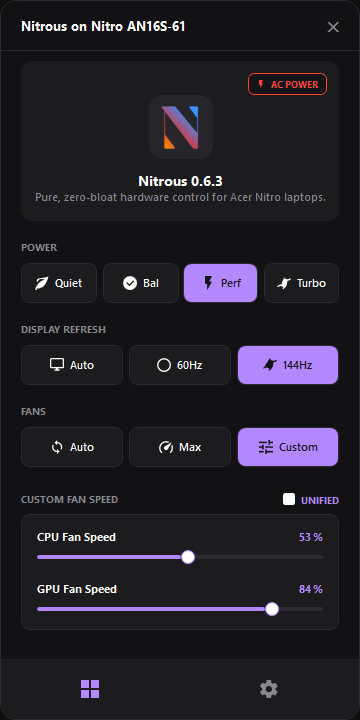
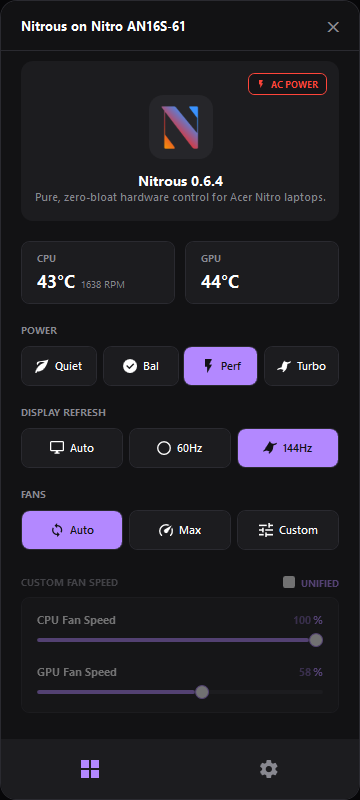
fixed some acer nitro models cannot control gpu fans and added cpu and gpu telemetries of rpm and temperature

diff --git a/app/Ui/NitrousDashboard.xaml b/app/Ui/NitrousDashboard.xaml
@@ -1,7 +1,7 @@
 <Window x:Class="Nitrous.Ui.NitrousDashboard"
         xmlns="http://schemas.microsoft.com/winfx/2006/xaml/presentation"
         xmlns:x="http://schemas.microsoft.com/winfx/2006/xaml"
-        Title="Nitrous Dashboard" Height="720" Width="360"
+        Title="Nitrous Dashboard" Height="800" Width="360"
         WindowStyle="None" AllowsTransparency="True" Background="Transparent"
         Topmost="True"
         IsVisibleChanged="Window_IsVisibleChanged"
@@ -190,6 +190,37 @@
                             </StackPanel>
                         </Grid>
                     </Border>
+
+                    <!-- LIVE TELEMETRY WIDGET -->
+                    <Grid Margin="0,0,0,20">
+                        <Grid.ColumnDefinitions>
+                            <ColumnDefinition Width="*"/>
+                            <ColumnDefinition Width="10"/>
+                            <ColumnDefinition Width="*"/>
+                        </Grid.ColumnDefinitions>
+
+                        <!-- CPU Telemetry -->
+                        <Border Grid.Column="0" Background="#1C1C1F" CornerRadius="8" BorderBrush="#2A2A30" BorderThickness="1" Padding="15,10">
+                            <StackPanel>
+                                <TextBlock Text="CPU" Foreground="#888890" FontSize="10" FontWeight="Bold"/>
+                                <StackPanel Orientation="Horizontal" Margin="0,4,0,0">
+                                    <TextBlock Text="{Binding CpuTempText}" Foreground="{Binding CpuTempColor}" FontSize="18" FontWeight="Bold"/>
+                                    <TextBlock Text="{Binding CpuRpmText}" Foreground="#888890" FontSize="10" VerticalAlignment="Bottom" Margin="6,0,0,3"/>
+                                </StackPanel>
+                            </StackPanel>
+                        </Border>
+
+                        <!-- GPU Telemetry -->
+                        <Border Grid.Column="2" Background="#1C1C1F" CornerRadius="8" BorderBrush="#2A2A30" BorderThickness="1" Padding="15,10">
+                            <StackPanel>
+                                <TextBlock Text="GPU" Foreground="#888890" FontSize="10" FontWeight="Bold"/>
+                                <StackPanel Orientation="Horizontal" Margin="0,4,0,0">
+                                    <TextBlock Text="{Binding GpuTempText}" Foreground="{Binding GpuTempColor}" FontSize="18" FontWeight="Bold"/>
+                                    <TextBlock Text="{Binding GpuRpmText}" Foreground="#888890" FontSize="10" VerticalAlignment="Bottom" Margin="6,0,0,3"/>
+                                </StackPanel>
+                            </StackPanel>
+                        </Border>
+                    </Grid>
 
                     <!-- Power Modes (Bound via Command) -->
                     <TextBlock Text="POWER" Foreground="#888890" FontSize="10" FontWeight="Bold" Margin="0,0,0,10"/>

diff --git a/app/Managers/AcerWmiManager.cs b/app/Managers/AcerWmiManager.cs
@@ -1,4 +1,5 @@
 using System;
+using System.Diagnostics;
 using System.Management;
 using System.Threading.Tasks;
 using Nitrous.Enums;
@@ -28,21 +29,21 @@ public static class AcerWmiManager
     {
         if (profile == FanProfile.Auto)
         {
-            await InvokeWmiAsync("AcerGamingFunction", "SetGamingFanBehavior", 0x410005ul.ToString());
+            await InvokeWmiAsync("AcerGamingFunction", "SetGamingFanBehavior", 0x41000Ful.ToString());
             await InvokeWmiAsync("AcerGamingFunction", "SetGamingFanSpeed", (1ul | (0ul << 8)).ToString());
             await InvokeWmiAsync("AcerGamingFunction", "SetGamingFanSpeed", (2ul | (0ul << 8)).ToString());
             await InvokeWmiAsync("AcerGamingFunction", "SetGamingFanSpeed", (4ul | (0ul << 8)).ToString());
         }
         else if (profile == FanProfile.Max)
         {
-            await InvokeWmiAsync("AcerGamingFunction", "SetGamingFanBehavior", 0x820005ul.ToString());
+            await InvokeWmiAsync("AcerGamingFunction", "SetGamingFanBehavior", 0x82000Ful.ToString());
             await InvokeWmiAsync("AcerGamingFunction", "SetGamingFanSpeed", (1ul | (100ul << 8)).ToString());
             await InvokeWmiAsync("AcerGamingFunction", "SetGamingFanSpeed", (2ul | (100ul << 8)).ToString());
             await InvokeWmiAsync("AcerGamingFunction", "SetGamingFanSpeed", (4ul | (100ul << 8)).ToString());
         }
-        else
+        else // Custom (Unified)
         {
-            await InvokeWmiAsync("AcerGamingFunction", "SetGamingFanBehavior", 0xC30005ul.ToString());
+            await InvokeWmiAsync("AcerGamingFunction", "SetGamingFanBehavior", 0xC3000Ful.ToString());
             ulong speedPercent = (ulong)profile;
             await InvokeWmiAsync("AcerGamingFunction", "SetGamingFanSpeed", (1ul | (speedPercent << 8)).ToString());
             await InvokeWmiAsync("AcerGamingFunction", "SetGamingFanSpeed", (2ul | (speedPercent << 8)).ToString());
@@ -52,14 +53,82 @@ public static class AcerWmiManager
 
     public static async Task SetCustomFansAsync(int cpuSpeed, int gpuSpeed)
     {
-        await InvokeWmiAsync("AcerGamingFunction", "SetGamingFanBehavior", 0xC30005ul.ToString());
-
-        // CPU
+        await InvokeWmiAsync("AcerGamingFunction", "SetGamingFanBehavior", 0xC3000Ful.ToString());
         await InvokeWmiAsync("AcerGamingFunction", "SetGamingFanSpeed", (1ul | ((ulong)cpuSpeed << 8)).ToString());
-
-        // GPU Broadcast
         await InvokeWmiAsync("AcerGamingFunction", "SetGamingFanSpeed", (2ul | ((ulong)gpuSpeed << 8)).ToString());
         await InvokeWmiAsync("AcerGamingFunction", "SetGamingFanSpeed", (4ul | ((ulong)gpuSpeed << 8)).ToString());
+    }
+
+    public static (int CpuTemp, int CpuRpm, int GpuTemp, int GpuRpm) GetSystemTelemetry()
+    {
+        int cpuTemp = 0, cpuRpm = 0, gpuTemp = 0, gpuRpm = 0;
+        try
+        {
+            using var searcher = new ManagementObjectSearcher(@"ROOT\WMI", "SELECT * FROM AcerGamingFunction");
+            foreach (ManagementObject instance in searcher.Get())
+            {
+                using (instance)
+                {
+                    using var cpuTempParams = instance.GetMethodParameters("GetGamingSysInfo");
+                    cpuTempParams["gmInput"] = 0x0101ul;
+                    using var cpuTempOut = instance.InvokeMethod("GetGamingSysInfo", cpuTempParams, null);
+                    if (cpuTempOut != null)
+                    {
+                        ulong rawCpuTemp = Convert.ToUInt64(cpuTempOut["gmOutput"]);
+                        cpuTemp = (int)((rawCpuTemp >> 8) & 0xFF);
+                    }
+
+                    using var cpuRpmParams = instance.GetMethodParameters("GetGamingSysInfo");
+                    cpuRpmParams["gmInput"] = 0x0201ul;
+                    using var cpuRpmOut = instance.InvokeMethod("GetGamingSysInfo", cpuRpmParams, null);
+                    if (cpuRpmOut != null)
+                    {
+                        ulong rawCpuRpm = Convert.ToUInt64(cpuRpmOut["gmOutput"]);
+                        cpuRpm = (int)((rawCpuRpm >> 8) & 0xFFFF);
+                    }
+
+                    ulong[] gpuFanIds = { 2ul, 3ul, 4ul };
+                    foreach (ulong id in gpuFanIds)
+                    {
+                        using var gpuRpmParams = instance.GetMethodParameters("GetGamingSysInfo");
+                        gpuRpmParams["gmInput"] = 0x0200ul | id;
+                        using var gpuRpmOut = instance.InvokeMethod("GetGamingSysInfo", gpuRpmParams, null);
+                        if (gpuRpmOut != null)
+                        {
+                            int rpm = (int)((Convert.ToUInt64(gpuRpmOut["gmOutput"]) >> 8) & 0xFFFF);
+                            if (rpm > gpuRpm) gpuRpm = rpm; // Take the highest valid RPM
+                        }
+                    }
+                    break;
+                }
+            }
+        }
+        catch { }
+
+        gpuTemp = GetGpuTempNvidia();
+
+        return (cpuTemp, cpuRpm, gpuTemp, gpuRpm);
+    }
+
+    private static int GetGpuTempNvidia()
+    {
+        try
+        {
+            using var p = new Process();
+            p.StartInfo.FileName = "nvidia-smi";
+            p.StartInfo.Arguments = "--query-gpu=temperature.gpu --format=csv,noheader,nounits";
+            p.StartInfo.UseShellExecute = false;
+            p.StartInfo.RedirectStandardOutput = true;
+            p.StartInfo.CreateNoWindow = true;
+            p.Start();
+
+            string output = p.StandardOutput.ReadToEnd().Trim();
+            p.WaitForExit(1000); // 1-second timeout safety
+
+            if (int.TryParse(output, out int temp)) return temp;
+        }
+        catch { }
+        return 0; // Returns 0 if Nvidia is deeply asleep or missing
     }
 
     public static async Task SetChargeLimitAsync(bool enable)

diff --git a/app/Ui/DashboardViewModel.cs b/app/Ui/DashboardViewModel.cs
@@ -9,6 +9,23 @@ namespace Nitrous.Ui;
 public class DashboardViewModel : ObservableObject
 {
     private readonly ActionDebouncer _fanDebouncer = new ActionDebouncer();
+    private string _cpuTempText = "--°C";
+    public string CpuTempText { get => _cpuTempText; set => SetProperty(ref _cpuTempText, value); }
+
+    private string _cpuTempColor = "White";
+    public string CpuTempColor { get => _cpuTempColor; set => SetProperty(ref _cpuTempColor, value); }
+
+    private string _cpuRpmText = "0 RPM";
+    public string CpuRpmText { get => _cpuRpmText; set => SetProperty(ref _cpuRpmText, value); }
+
+    private string _gpuTempText = "--°C";
+    public string GpuTempText { get => _gpuTempText; set => SetProperty(ref _gpuTempText, value); }
+
+    private string _gpuRpmText = "Sleep";
+    public string GpuRpmText { get => _gpuRpmText; set => SetProperty(ref _gpuRpmText, value); }
+
+    private string _gpuTempColor = "White";
+    public string GpuTempColor { get => _gpuTempColor; set => SetProperty(ref _gpuTempColor, value); }
 
     public DashboardViewModel()
     {
@@ -72,6 +89,8 @@ public class DashboardViewModel : ObservableObject
                 DisplayManager.ApplyRefreshProfile(profile, isOnline);
             }
         });
+
+        StartTelemetryPolling();
     }
 
     public string MaxRefreshText { get; }
@@ -197,4 +216,41 @@ public class DashboardViewModel : ObservableObject
     public ICommand SetPowerCommand { get; }
     public ICommand SetFanCommand { get; }
     public ICommand SetRefreshCommand { get; }
+
+    private async void StartTelemetryPolling()
+    {
+        while (true)
+        {
+            await System.Threading.Tasks.Task.Run(() =>
+            {
+                var telemetry = AcerWmiManager.GetSystemTelemetry();
+
+                System.Windows.Application.Current.Dispatcher.Invoke(() =>
+                {
+                    // Update CPU
+                    CpuTempText = telemetry.CpuTemp > 0 ? $"{telemetry.CpuTemp}°C" : "--°C";
+                    CpuRpmText = $"{telemetry.CpuRpm} RPM";
+                    CpuTempColor = telemetry.CpuTemp > 85 ? "#FF453A" : "White";
+
+                    // Update GPU
+                    GpuTempText = telemetry.GpuTemp > 0 ? $"{telemetry.GpuTemp}°C" : "--°C";
+
+                    if (telemetry.GpuTemp > 0)
+                    {
+                        // GPU is awake! If RPM is 0, the WMI tachometer is locked/unsupported, so we omit it.
+                        GpuRpmText = telemetry.GpuRpm > 0 ? $"{telemetry.GpuRpm} RPM" : "";
+                    }
+                    else
+                    {
+                        // GPU is genuinely deeply asleep (0°C)
+                        GpuRpmText = "Sleep";
+                    }
+
+                    GpuTempColor = telemetry.GpuTemp > 85 ? "#FF453A" : "White";
+                });
+            });
+
+            await System.Threading.Tasks.Task.Delay(2000);
+        }
+    }
 }

diff --git a/app/Managers/UpdateManager.cs b/app/Managers/UpdateManager.cs
@@ -10,7 +10,7 @@ namespace Nitrous.Managers;
 
 public static class UpdateManager
 {
-    public const string CurrentVersion = "0.6.3";
+    public const string CurrentVersion = "0.6.4";
     private const string GithubRepo = "jeremyaliparo/nitrous";
 
     private static readonly HttpClient SharedClient = new HttpClient();
